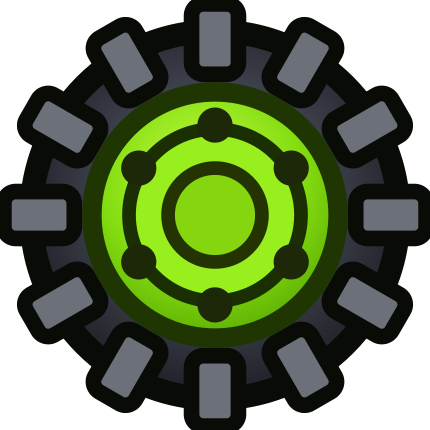
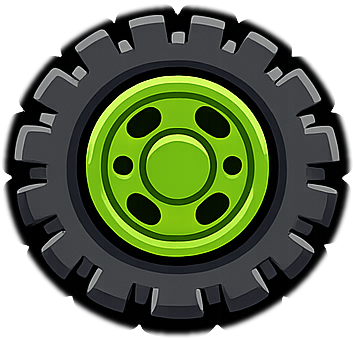
Use original green buggy assets and clean wheel shadow

diff --git a/cargame.html b/cargame.html
@@ -923,7 +923,7 @@
                 id: "dune",
                 label: "숲속 버기",
                 tagline: "선택 가능",
-                description: "첨부한 초록 버기 이미지를 기준으로 다시 등록한 두 번째 차량입니다. 차체와 바퀴가 PNG로 분리되어 렌더링됩니다.",
+                description: "원본 초록 버기 PNG를 직접 분리해 등록한 두 번째 차량입니다. 차체와 바퀴가 PNG로 분리되어 렌더링됩니다.",
                 traits: ["초록 버기", "분리형 바퀴", "즉시 사용 가능"],
                 available: true,
                 engine: {
@@ -963,7 +963,7 @@
                     accent: "#ffd166",
                     glass: "#1d3557",
                     tint: null,
-                    spriteWidth: 208,
+                    spriteWidth: 198,
                     spriteOffsetX: 0,
                     spriteOffsetY: -30,
                     wheelScale: 2.3,
